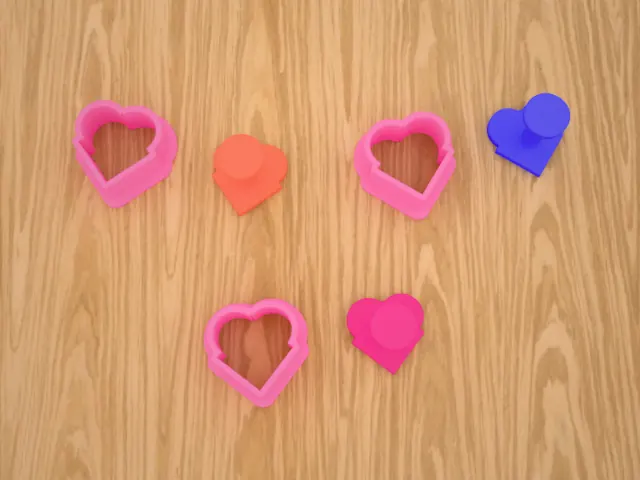
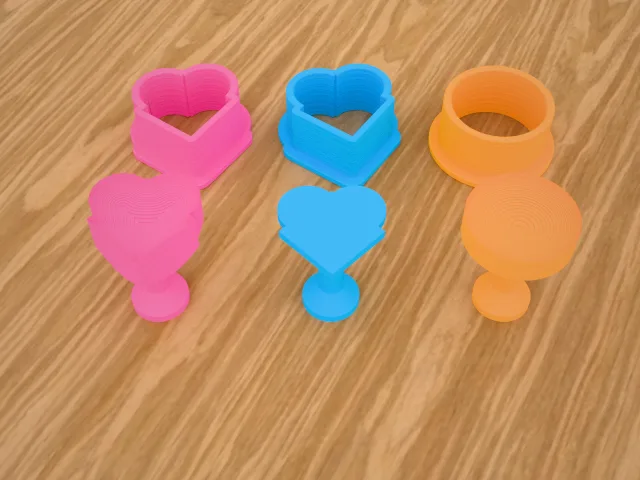
feat: foto do ejetor com os três fundos do êmbolo à mostra: domo, plano e escala até um ponto (#280)

diff --git a/src/thumbs/photo/models.ts b/src/thumbs/photo/models.ts
@@ -3,6 +3,9 @@ import { loadFont } from "../../geometry/fonts";
 import { buildKeychain, DEFAULT_KEYCHAIN } from "../../geometry/keychain";
 import { getManifold, type CS } from "../../geometry/manifold";
 import { buildMedal, DEFAULT_MEDAL } from "../../geometry/medal";
+import { buildEjector, DEFAULT_EJECTOR } from "../../geometry/models/brigadeiroEjector";
+import type { EjectorBottom } from "../../geometry/models/ejectorBottom";
+import { testArt } from "../../geometry/models/sampleArt";
 import { buildPixelArt, DEFAULT_PIXEL_OPTIONS } from "../../geometry/pixelArt";
 import { buildStamp, DEFAULT_STAMP } from "../../geometry/stamp";
 import { buildStampArt, DEFAULT_ART } from "../../geometry/stampArt";
@@ -23,7 +26,7 @@ import { AZIMUTH_DEG, type PhotoItem, type PhotoScene } from "./render";
  * As cenas da foto realista (#251, rodada 2): cada peça montada como se usa e em 3 a 4 cópias com nomes e cores
  * diferentes, espalhadas na mesa. `bevel` arredonda as quinas (0,4 mm) antes de montar a cena.
  */
-export const PHOTO_IDS = ["keychain", "organizer", "medal", "pix", "thermo", "vessel", "pixel", "micHolder", "stampMold", "dryStamp"] as const;
+export const PHOTO_IDS = ["keychain", "organizer", "medal", "pix", "thermo", "vessel", "pixel", "micHolder", "stampMold", "dryStamp", "ejector"] as const;
 export type PhotoId = (typeof PHOTO_IDS)[number];
 export type SceneOpts = { bevel?: boolean };
 
@@ -297,6 +300,33 @@ async function dryStamps(o: SceneOpts): Promise<PhotoScene> {
   ], { darkTable: true, elevation: 48, heroPad: 0.3 });
 }
 
+// ejetor (#280): os três fundos lado a lado, com o êmbolo de face para cima (a que encosta no doce) e a forma atrás
+const EJECTORS: { bottom: EjectorBottom; round: boolean; frame: string }[] = [
+  { bottom: "dome", round: false, frame: "#f472b6" },
+  { bottom: "flat", round: false, frame: "#0ea5e9" },
+  { bottom: "scale", round: true, frame: "#f59e0b" }, // escala até um ponto: só para forma redonda e simples
+];
+const EJECTOR_GAP_MM = 48;
+
+async function ejectors(o: SceneOpts): Promise<PhotoScene> {
+  const M = await getManifold();
+  const a = (AZIMUTH_DEG * Math.PI) / 180;
+  const at = (side: number, depth: number, rotZ: number): Pose => ({ x: side * Math.cos(a) - depth * Math.sin(a), y: side * Math.sin(a) + depth * Math.cos(a), rotZ: AZIMUTH_DEG + rotZ });
+  const placed: Placed[] = [];
+  const back: Placed[] = [];
+  for (const [i, v] of [1, 0, 2].map((k) => [k, EJECTORS[k]] as const)) {
+    const art = v.round ? M.CrossSection.circle(15, 96) : testArt(M);
+    const [frame, plunger] = buildEjector({ M, art, text: () => null }, { ...DEFAULT_EJECTOR, bottom: v.bottom, domeHeight: 5, frameColor: v.frame, ejectorColor: v.frame }).models;
+    art.delete();
+    // o fundo plano imprime com a face na mesa: vira para a face aparecer como as outras (fundo curvo já sai virado)
+    const up = grounded(v.bottom === "flat" ? placeModels([plunger], { rotX: 180 }) : [plunger]);
+    const side = (i - 1) * EJECTOR_GAP_MM;
+    placed.push(place(up, [], at(side, 0, 180))); // virado no eixo X: gira para o desenho olhar como a forma; sem arredondar: os degraus mostram a curva
+    back.push(place(await maybeBevel(grounded([frame]), o), [], at(side + 4, 60, 10)));
+  }
+  return sceneOf([...placed, ...back], { elevation: 52, heroPad: 0.75 });
+}
+
 export async function photoScene(id: PhotoId, o: SceneOpts = {}): Promise<PhotoScene> {
   switch (id) {
     case "keychain":
@@ -319,6 +349,8 @@ export async function photoScene(id: PhotoId, o: SceneOpts = {}): Promise<PhotoS
       return stampMolds(o);
     case "dryStamp":
       return dryStamps(o);
+    case "ejector":
+      return ejectors(o);
   }
 }
 

diff --git a/tests/e2e/photos.e2e.ts b/tests/e2e/photos.e2e.ts
@@ -30,7 +30,7 @@ test("fotos realistas dos modelos", async ({ page }) => {
     warm: Number(process.env.PHOTO_WARM ?? 1),
     extra: JSON.parse(process.env.PHOTO_OPTS ?? "{}"),
     all,
-    special: ["keychain", "organizer", "medal", "pix", "thermo", "vessel", "pixel", "micHolder", "stampMold", "dryStamp"],
+    special: ["keychain", "organizer", "medal", "pix", "thermo", "vessel", "pixel", "micHolder", "stampMold", "dryStamp", "ejector"],
   };
   const tag = process.env.PHOTO_TAG ?? `${arg.filament}-${arg.backdrop}`;
   const times: Record<string, unknown> = {};
